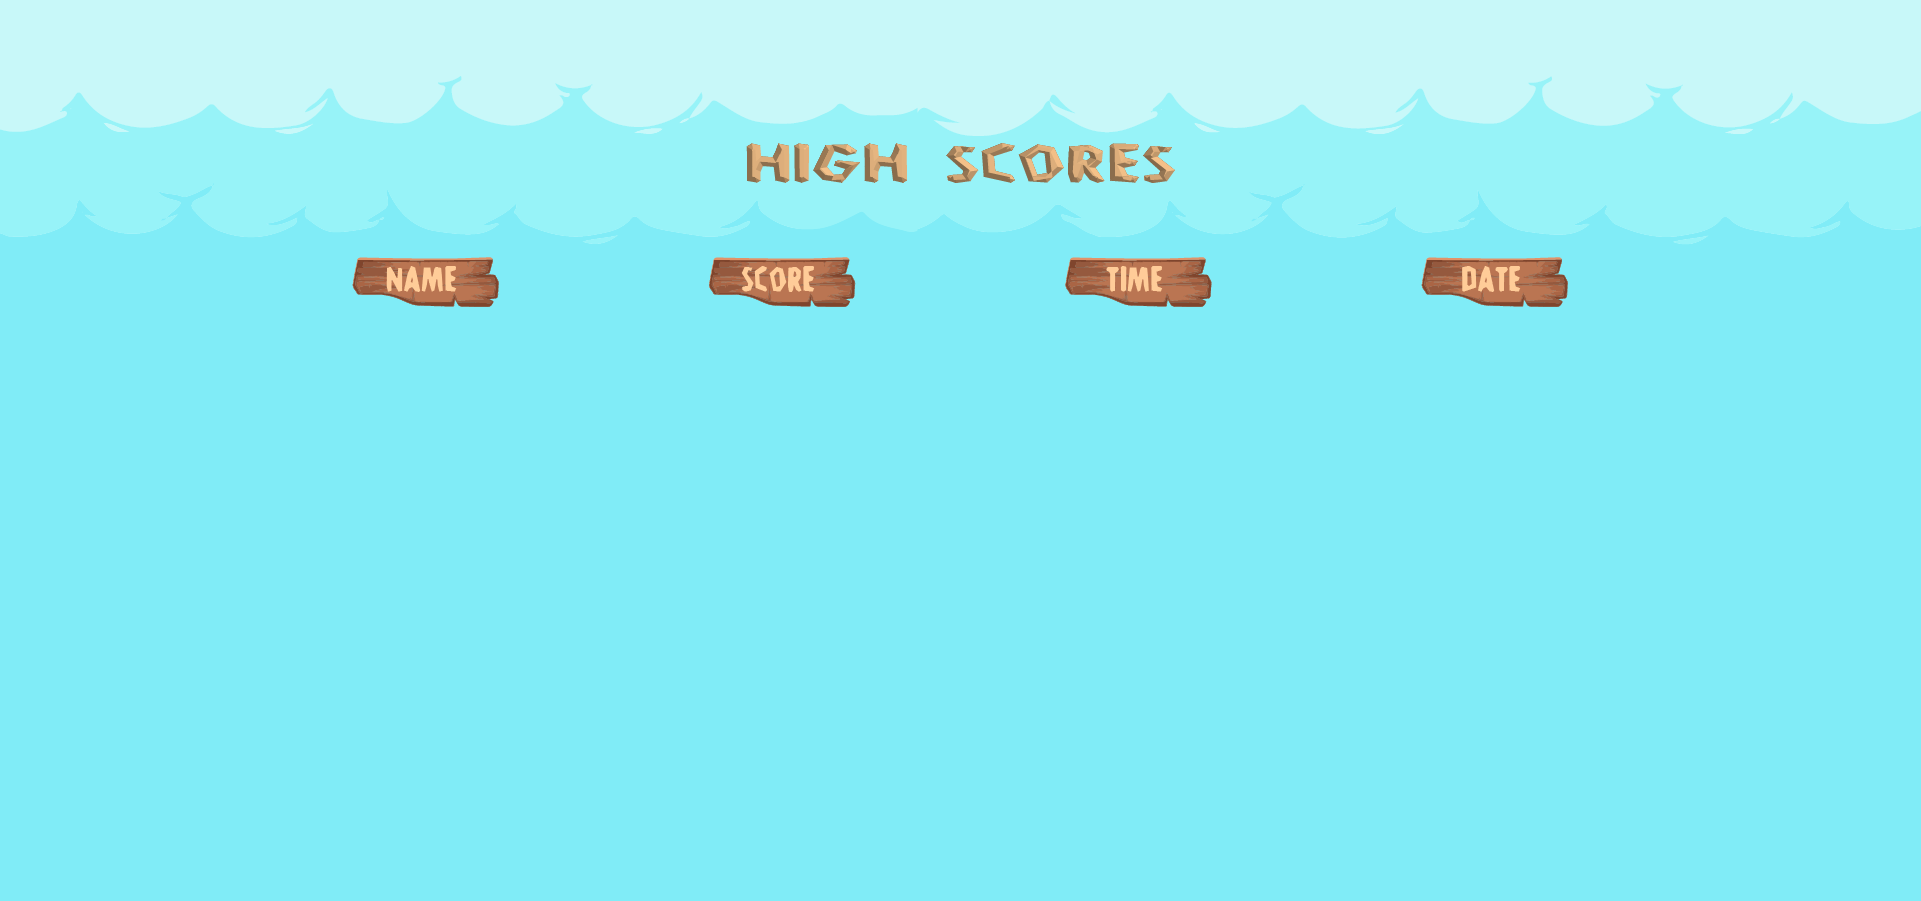
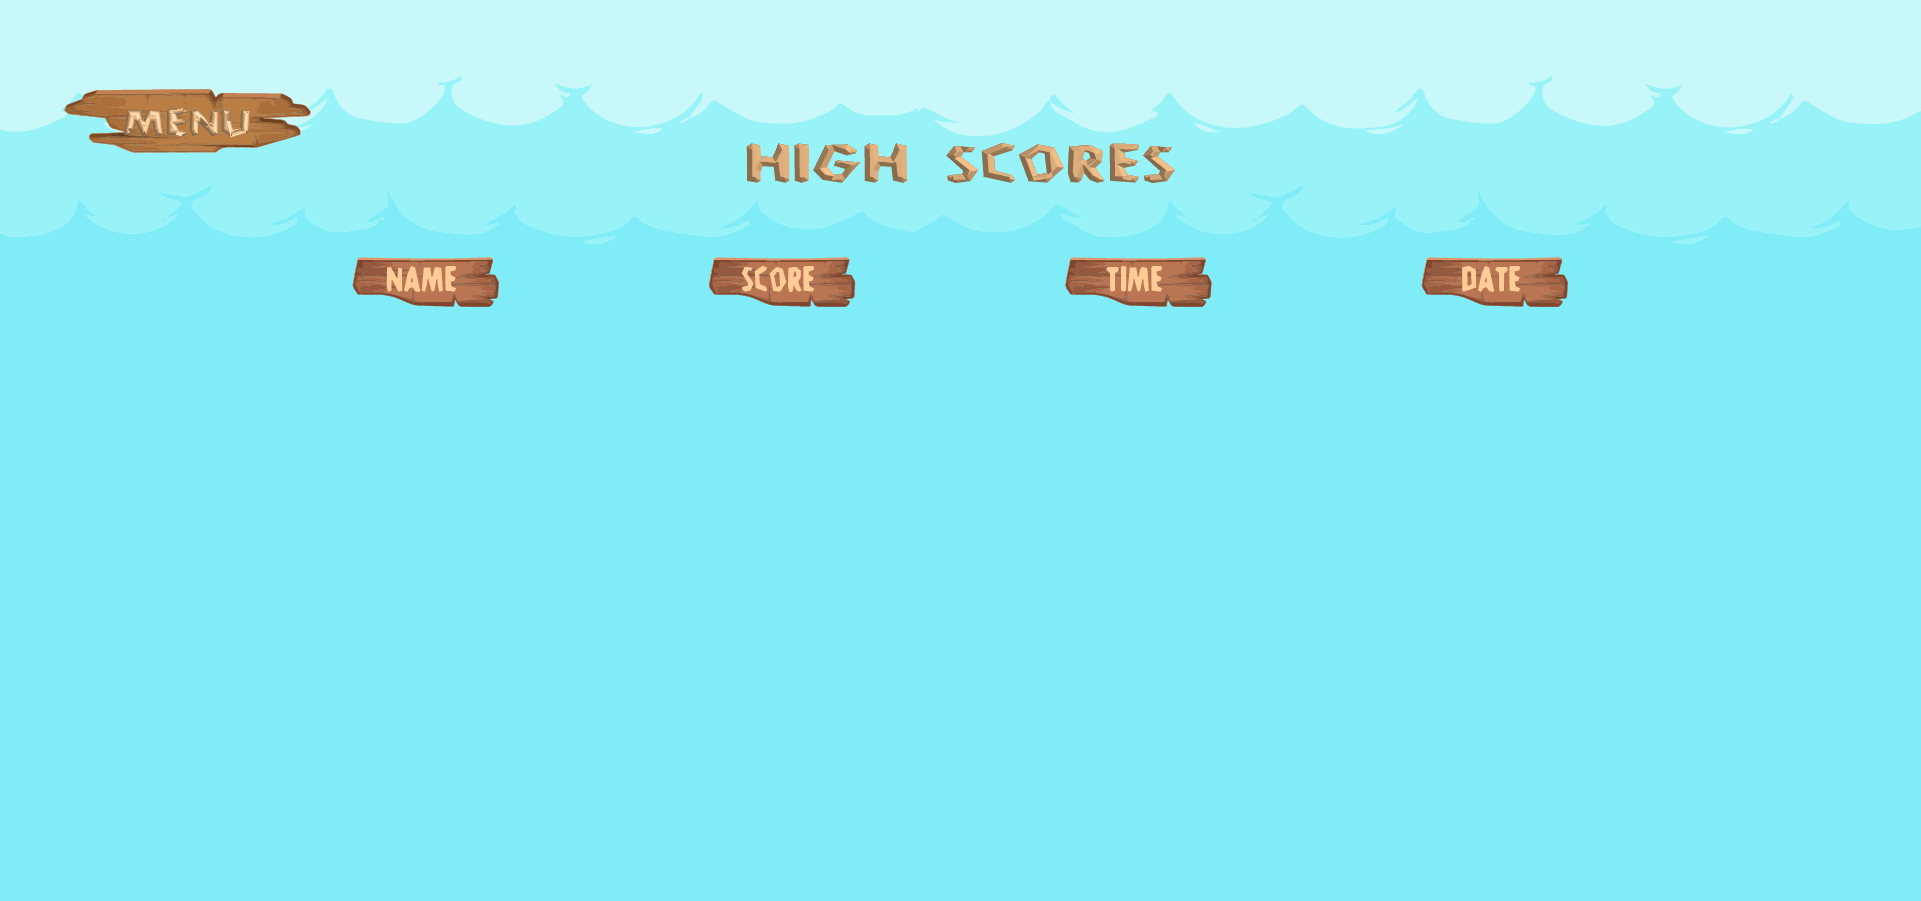
buttons fully functioning

Changed region(s): [[0.0312, 0.0932, 0.1562, 0.1865]]

diff --git a/src/controller/MainController.java b/src/controller/MainController.java
@@ -86,13 +86,21 @@ public class MainController {
 			screen = 2;
 		}
 		
-		//name Screen --> score Screen
+		//Name Screen --> Score Screen
 		if (screen == 3 && mouseX > (840 - (300 / 2))
 			&& mouseX < (840 + (300 / 2))
 			&& mouseY > (680 - (100 / 2))
 			&& mouseY < (680 + (100 / 2))) {
 			screen = 4;
 		}
+		
+		//Score Screen --> Menu Screen
+		if (screen == 4 && mouseX > (170 - (290 / 2))
+				&& mouseX < (170 + (290 / 2))
+				&& mouseY > (90 - (100 / 2))
+				&& mouseY < (90 + (100 / 2))) {
+				screen = 0;
+			}
 	}
 
 	public GameScreen getGamescreen() {

diff --git a/src/view/Main.java b/src/view/Main.java
@@ -29,7 +29,7 @@ public class Main extends PApplet{
 	@Override
 	public void draw() {
 		
-		//System.out.println(mouseX + "," + mouseY);
+		System.out.println(mouseX + "," + mouseY);
 		
 		imageMode(CENTER);
 		rectMode(CENTER);
